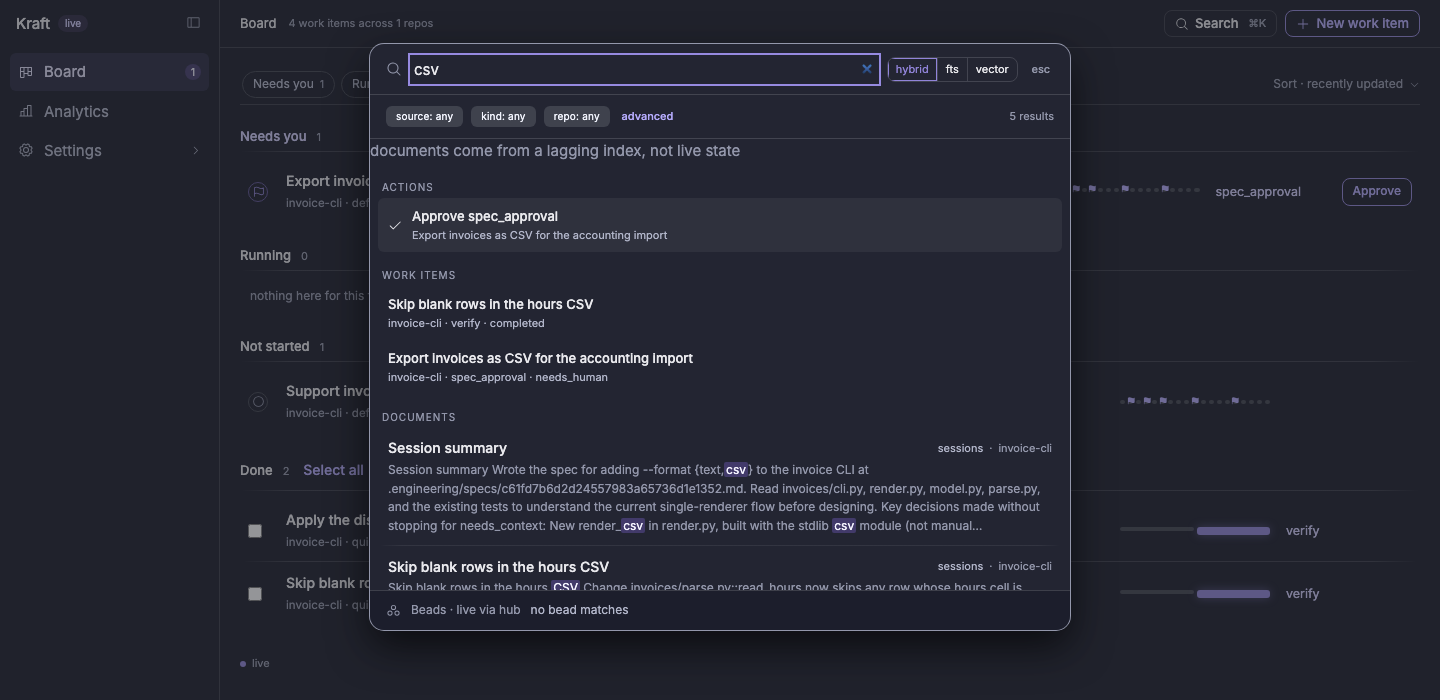
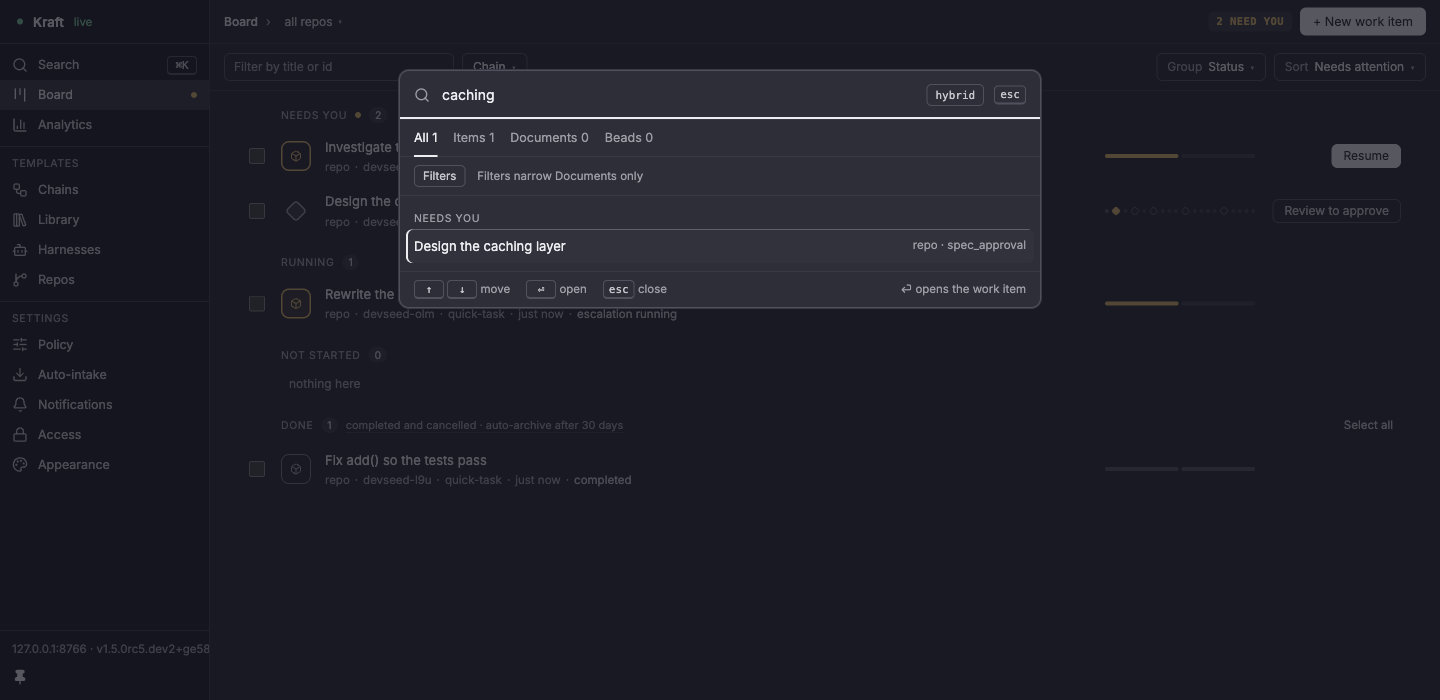
W18 L: README and docs screenshots retaken from the new UI
board, gate, search, analytics (1440 wide) and mobile (390x844), from a
seeded dev instance on this branch; the search alt text matches the new
picture.

diff --git a/docsite/content/index.md b/docsite/content/index.md
@@ -55,7 +55,7 @@ title: Search, ⌘K
 description: Full-text search, with optional vector search, across work items, pending actions, and linked documents.
 orientation: horizontal
 ---
-![The search overlay: a query for "CSV" surfacing a pending approval, the matching work items, and agent session summaries](/assets/search.png)
+![The ⌘K search overlay over the board: a query finds the work item waiting for approval, with tabs for items, documents and beads](/assets/search.png)
 ::
 
 ::u-page-section
